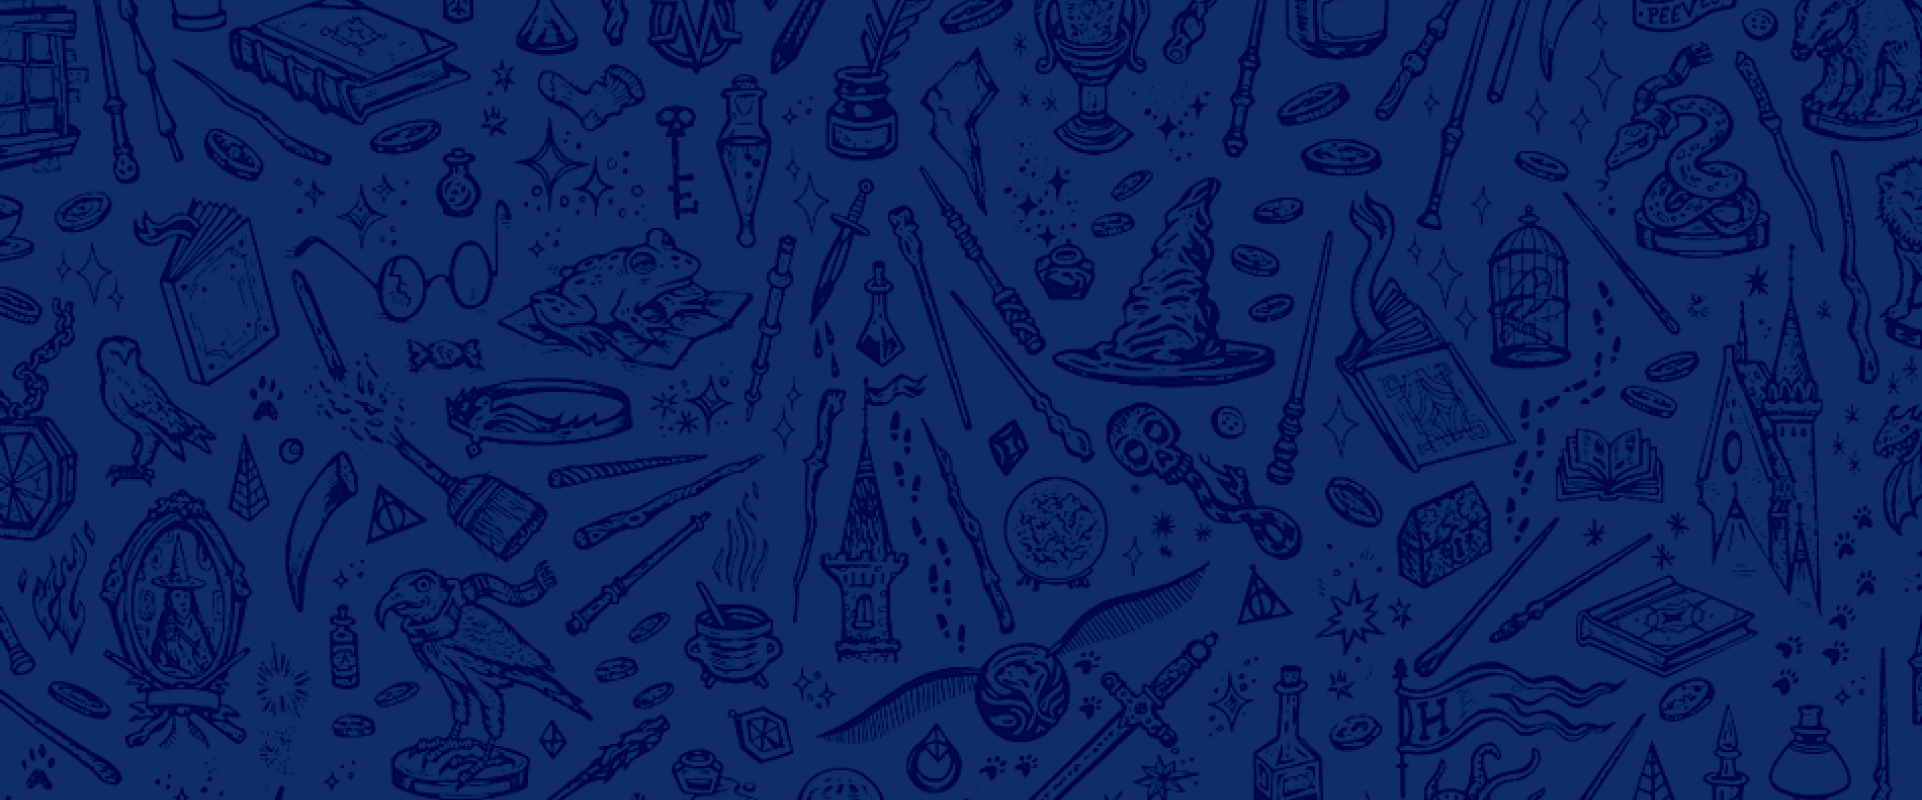
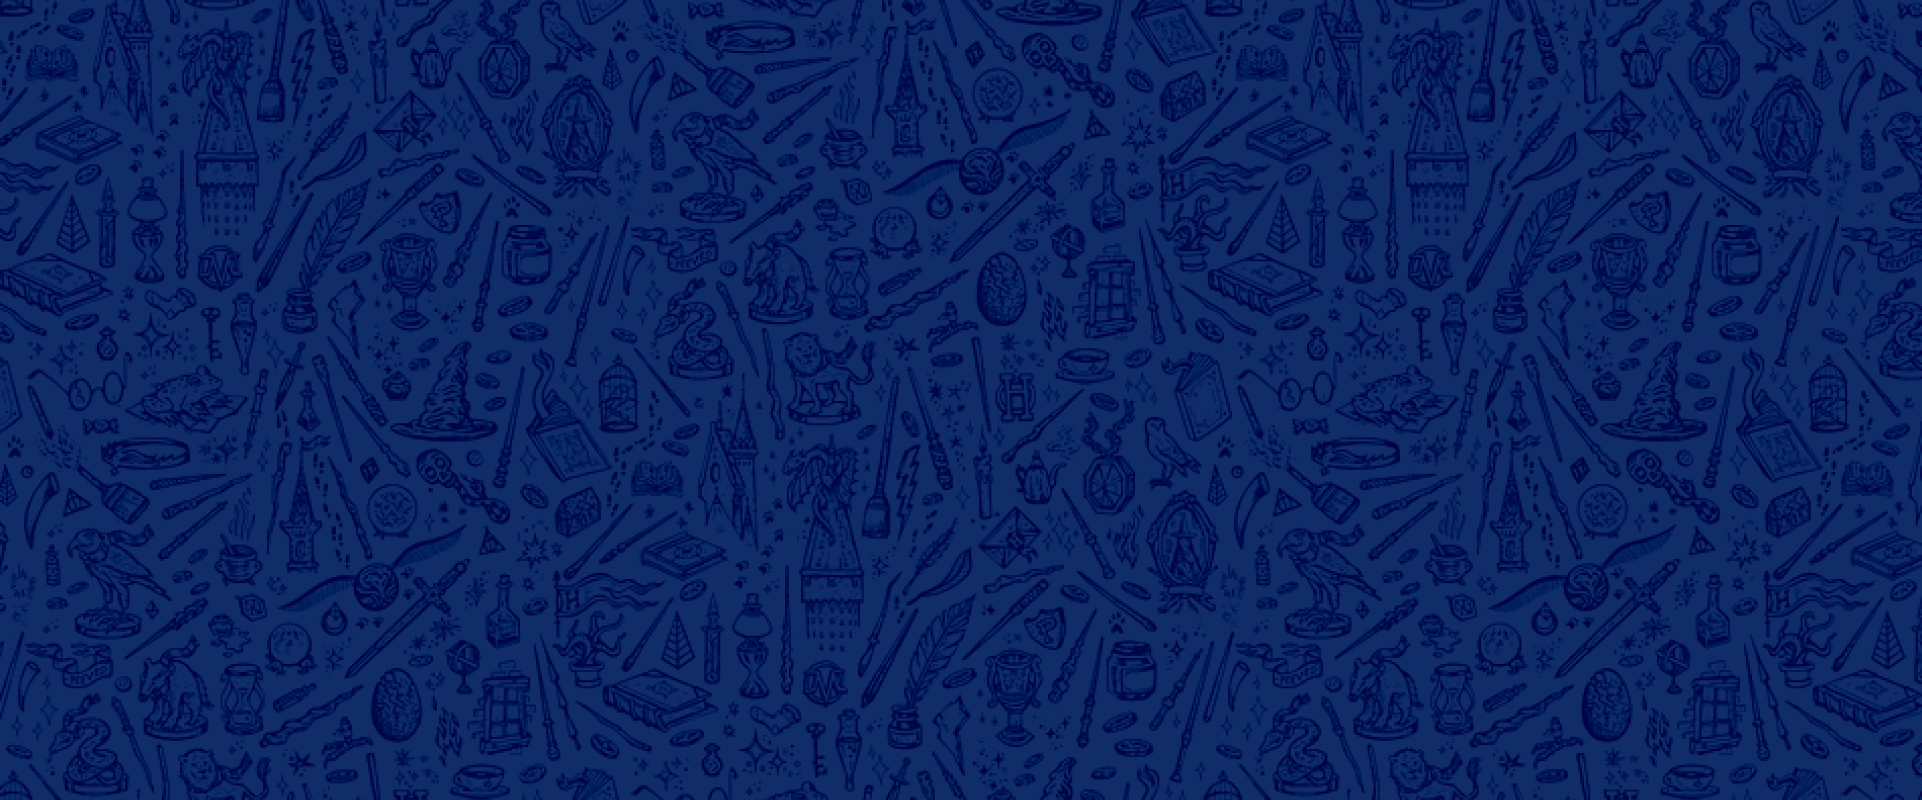
fixes

Changed region(s): [[0.0, 0.0, 1.0, 1.0]]

diff --git a/src/sections/footer/style.module.scss b/src/sections/footer/style.module.scss
@@ -43,3 +43,22 @@ footer {
 .info {
     font-size: 24px;
 }
+
+@media screen and (max-width: 1200px) {
+    .content {
+        flex-direction: column; 
+    }
+}
+
+@media screen and (max-width: 620px) {
+    .title h1 {
+        font-size: 36px;
+        letter-spacing: 2px;
+    }
+    .title p {
+        font-size: 24px;
+    }
+    .info {
+        font-size: 18px;
+    }
+}

diff --git a/src/sections/prices/style.module.scss b/src/sections/prices/style.module.scss
@@ -46,7 +46,7 @@
     transition: color 0.3s ease-in-out;
     position: relative;
     & h1 {
-        font-size: 64px !important;
+        font-size: 64px ;
     }
     &:not(.blurred) {
         filter: blur(0px);
@@ -97,5 +97,8 @@
     }
     .title p, .price , .spell {
         font-size: 24px;
+    }
+    .price h1 {
+        font-size: 36px !important;
     }
 }

diff --git a/src/sections/info/style.module.scss b/src/sections/info/style.module.scss
@@ -7,10 +7,7 @@
     align-items: center;
 
     background-color: #102D69;
-    background-image: url(../../images/bg.jpg);
-    background-size: contain;
-    background-repeat: repeat;
-    background-blend-mode: multiply;
+    background-image: url(../../images/bg.png);
 }
 
 .content {
